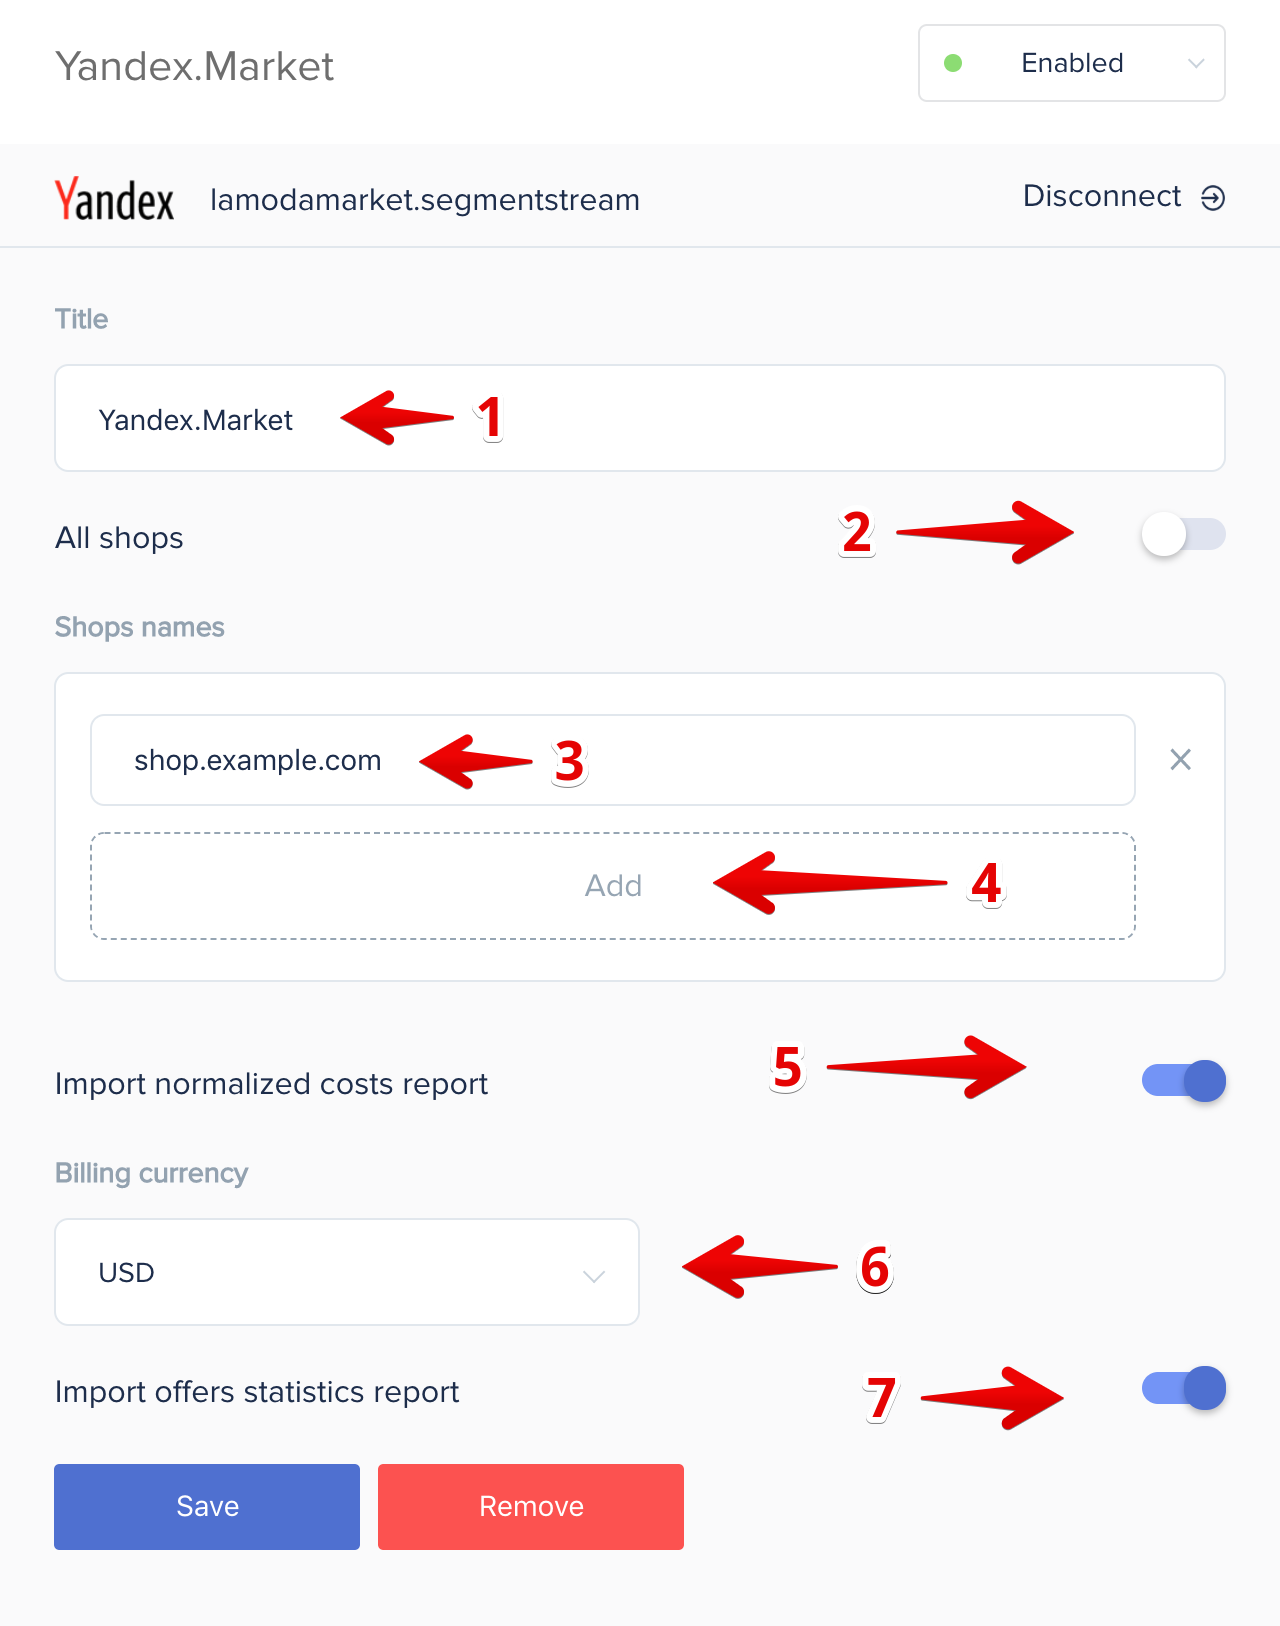
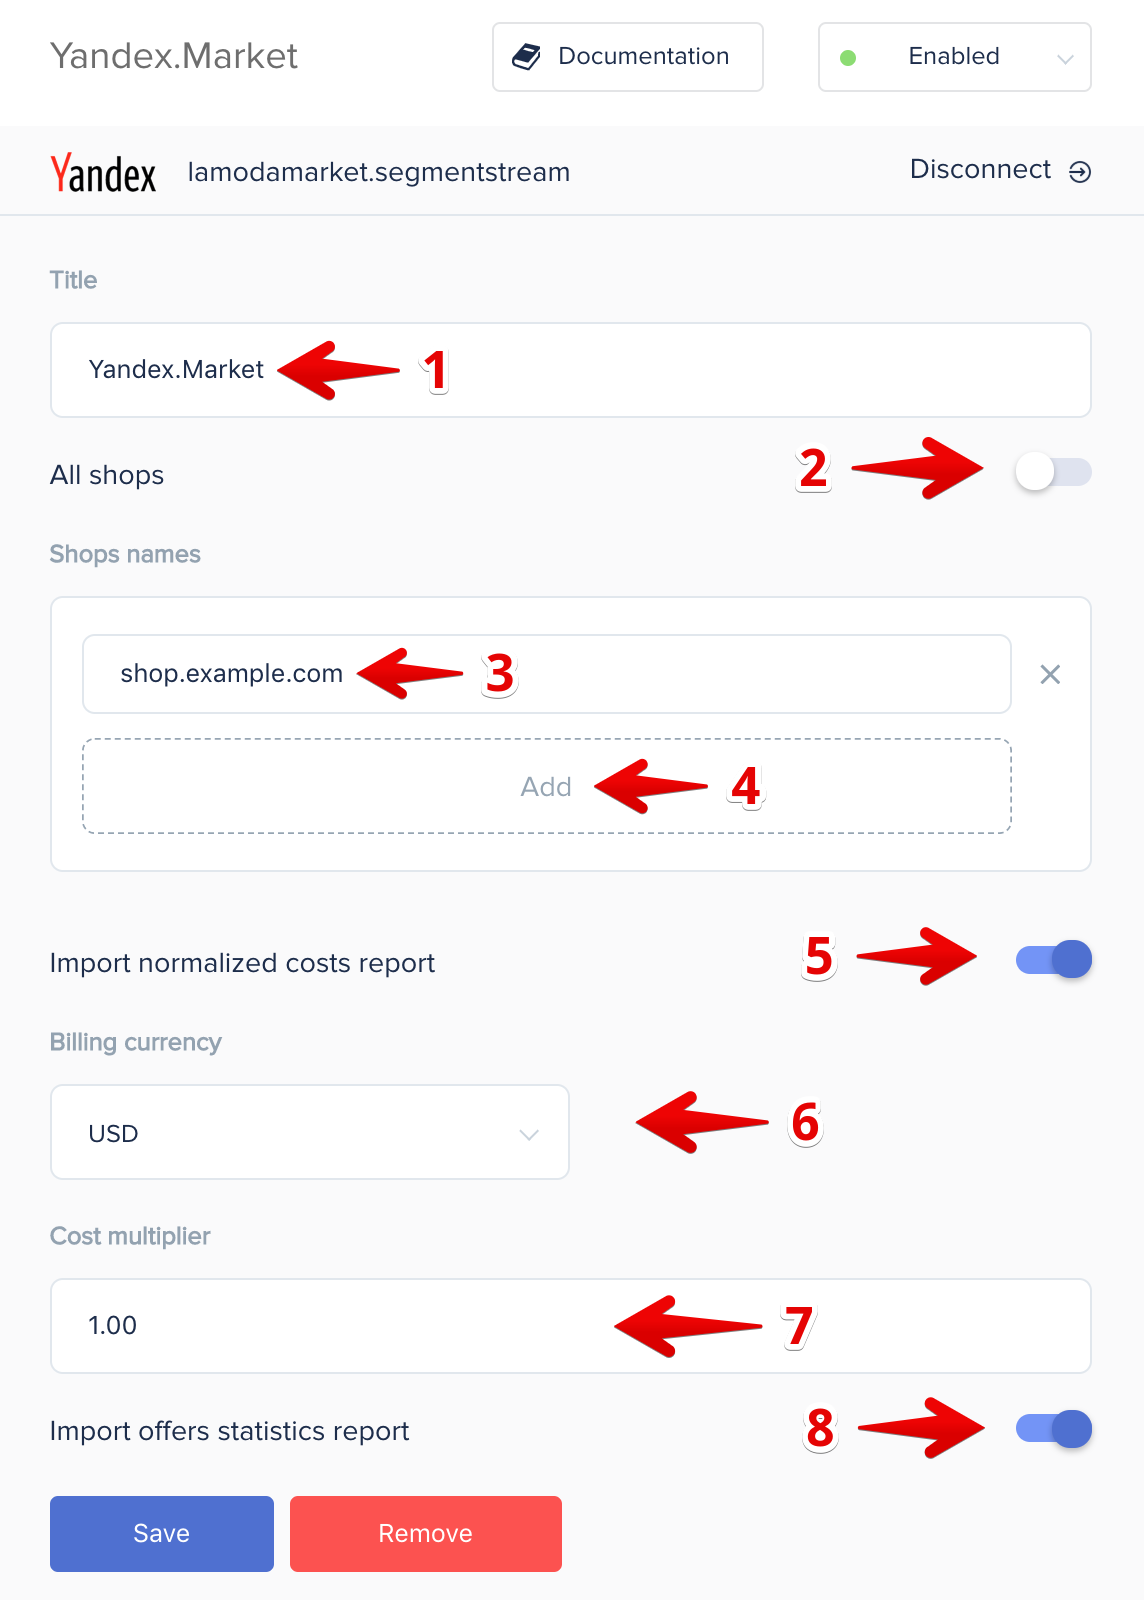
Update Yandex.Market screenshot and docs (added cost multiplier)

diff --git a/_docs/datasources/yandex market.md b/_docs/datasources/yandex market.md
@@ -29,9 +29,11 @@ After authorization you need to set the data source parameters.
 
 (5) **Import normalized costs report**  - enable normalized costs report import.
 
-(6) If normalized costs report enabled, you can select billing currency of report.
+(6) If the normalized costs report is enabled, you can select the billing currency of the report.
 
-(7) **Import offer statistics report**  - enable offer statistics report import.
+(7) If the normalized costs report is enabled, you can set the value multiplier. Multiplied by the cost in the report.
+
+(8) **Import offer statistics report**  - enable offer statistics report import.
 
 ---
 
